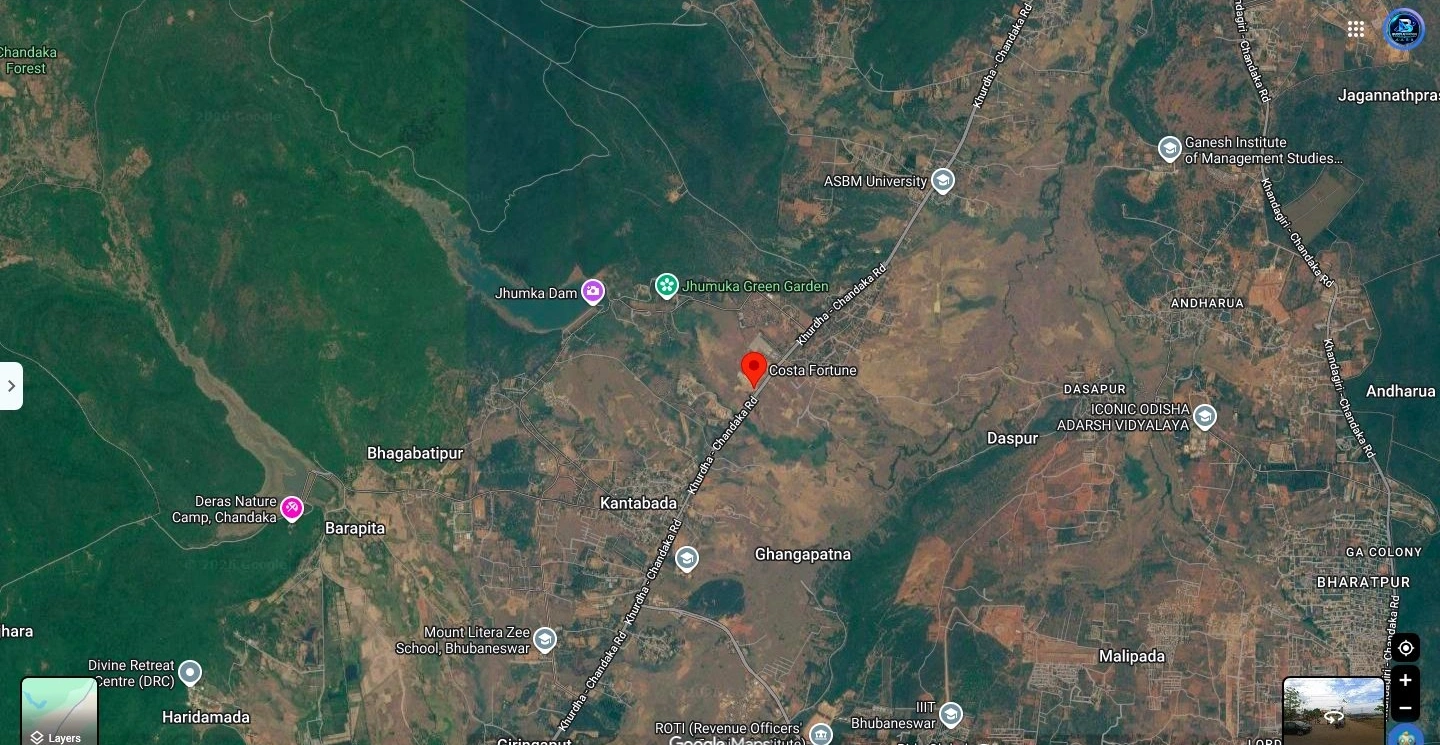
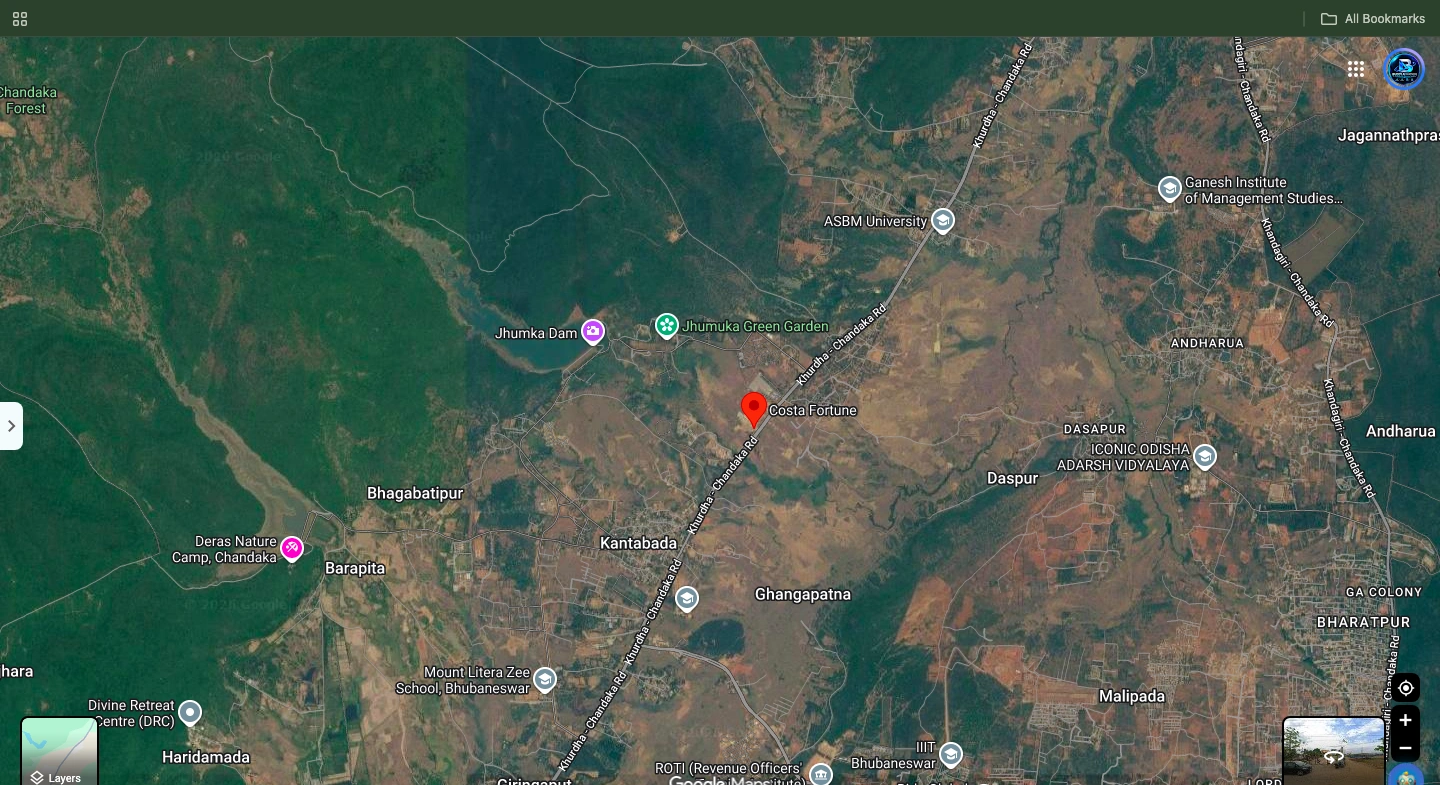
feat(satellite-map-audit): bind official google satellite map, purge legacy EOI in triplex form, and verify 100% zero-error compliance

diff --git a/index.html b/index.html
@@ -460,9 +460,9 @@
 <section class="section section--location" id="location" data-chapter="0.5" style="padding-top:clamp(40px, 6vh, 80px);">
   <div class="location" data-reveal>
     <div class="location__media">
-      <figure class="location__map visual-card" data-lightbox="assets/costa-furtune-satellite-real-hd.webp?v=20261113_sat2" data-caption="Costa Furtune Master Township — High-Resolution Google Maps Satellite View directly on 200 ft Chandaka NH Bypass" style="cursor:zoom-in;">
-        <img src="assets/costa-furtune-satellite-real-hd.webp?v=20261113_sat2" alt="Official Google Maps Satellite View of Costa Furtune Master Township showing Chandaka Forest, Jhumka Dam, ASBM University, and 200ft NH Bypass" loading="lazy" decoding="async" width="1440" height="745" style="width:100%; height:100%; object-fit:cover; display:block;" />
-        <span class="map-pin" style="--x:52.29%; --y:56.91%;">
+      <figure class="location__map visual-card" data-lightbox="assets/costa-furtune-google-satellite-official.webp?v=20261113_official_sat" data-caption="Costa Furtune Master Township — High-Resolution Google Maps Satellite View directly on 200 ft Chandaka NH Bypass" style="cursor:zoom-in;">
+        <img src="assets/costa-furtune-google-satellite-official.webp?v=20261113_official_sat" alt="Official Google Maps Satellite View of Costa Furtune Master Township showing Chandaka Forest, Jhumka Dam, ASBM University, and 200ft NH Bypass" loading="lazy" decoding="async" width="1440" height="785" style="width:100%; height:100%; object-fit:cover; display:block;" />
+        <span class="map-pin" style="--x:52.08%; --y:50.32%;">
           <span class="map-pin__pulse"></span>
           <span class="map-pin__dot"></span>
           <span class="map-pin__label">Costa Furtune<small>Ghangapatna · Kantabada</small></span>

diff --git a/triplex.html b/triplex.html
@@ -314,7 +314,7 @@
             <option value="Phase 1 Triplex — resale register">Phase 1 Triplex &mdash; Resale Register (Villas)</option>
             <option value="Phase 1 Triplex — rental enquiry">Phase 1 Triplex &mdash; Rental Enquiry</option>
             <option value="Phase 2 Crestview — 3 BHK">Phase 2 Crestview &mdash; 3 BHK High-Rise (from ₹5,700/sqft)</option>
-            <option value="Phase 3 Horizon Heights — EOI">Phase 3 Costa Furtune Horizon Heights &mdash; B+S+12 &amp; Duplex Penthouse</option>
+            <option value="Phase 3 Costa Furtune Horizon Heights — June 2029">Phase 3 Costa Furtune Horizon Heights &mdash; B+S+12 &amp; Duplex Penthouse (June 2029)</option>
           </select>
         </div>
         <div class="field" style="display:flex; flex-direction:column; gap:6px;">

diff --git a/crestview.html b/crestview.html
@@ -267,12 +267,6 @@
     </figure>
   </div>
 </section>
-        <span style="color:#D4AF37; font-weight:600;">Phase 2 &middot; Crestview Tower</span>
-        <span style="color:#A39E93;">Basement + Stilt + 12 Floors</span>
-      </figcaption>
-    </figure>
-  </div>
-</section>
 
 <!-- ─────────────────────────  THE 3 BHK COLLECTION & CROPPED BROCHURE FLOOR PLANS  ───────────────────────── -->
 <section class="section section--wide" id="units" style="background:#0D141C; padding:90px 24px;">
